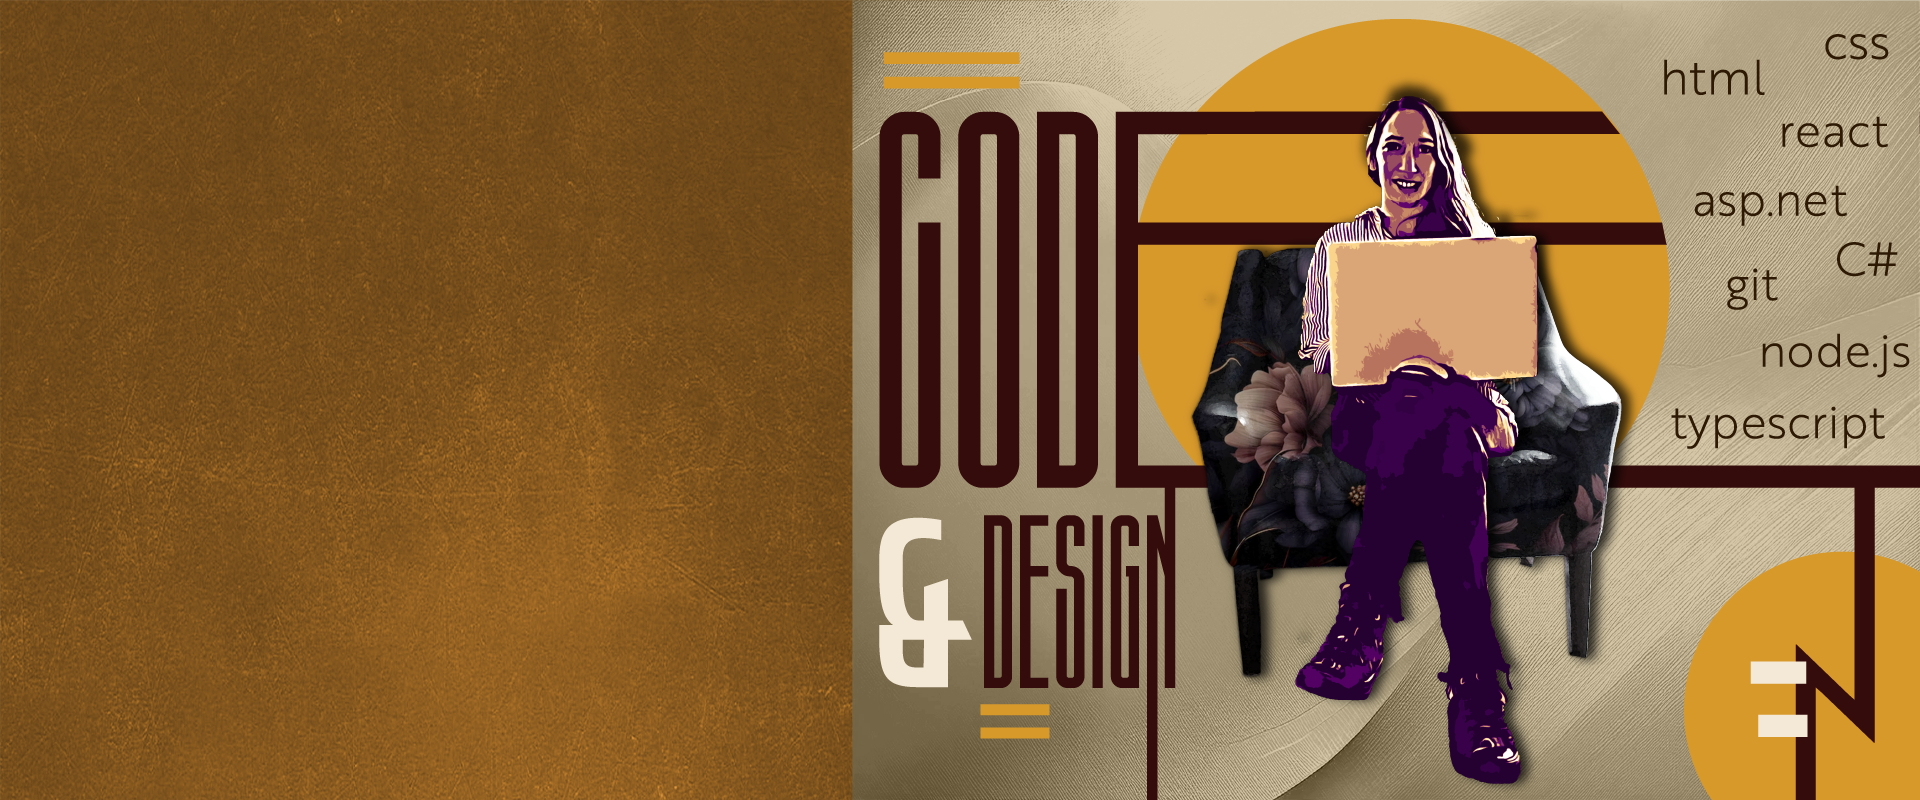
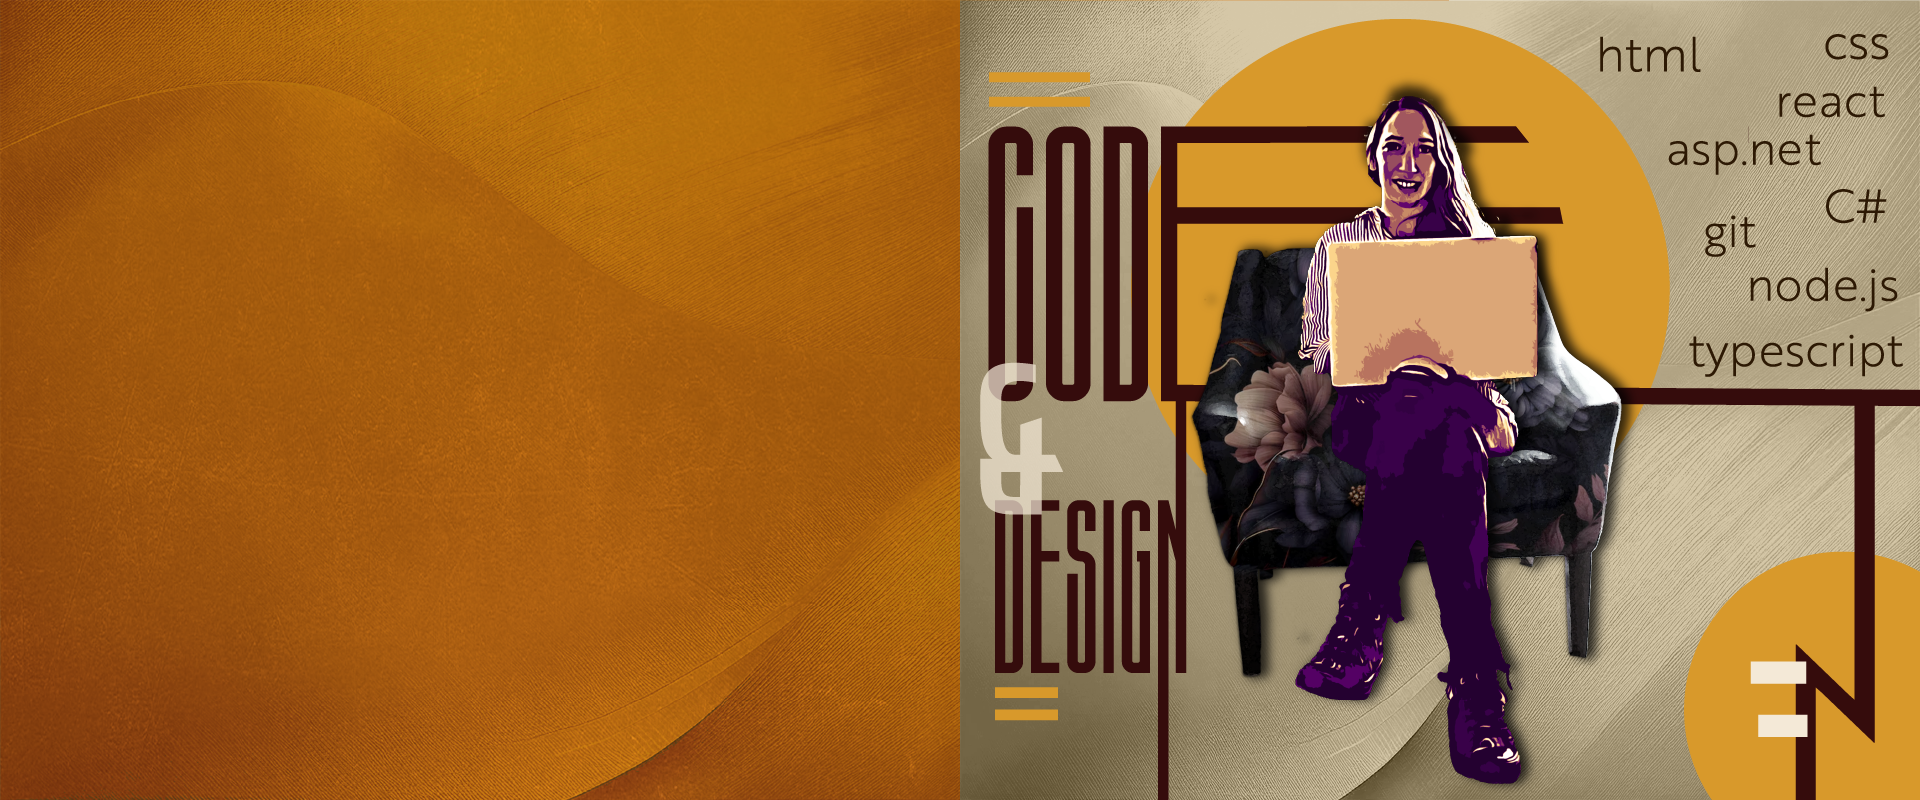
Get the hero section more responive with text

diff --git a/src/component/heroSection/HeroSection.tsx b/src/component/heroSection/HeroSection.tsx
@@ -1,45 +1,53 @@
 import { useEffect, useState } from "react";
 import { useTranslation } from "react-i18next";
 import useFadeIn from "../../hook/useFadeIn";
+import Button from "../Partial/Button";
 import ResponsiveHeroImage from "./ResponsiveHeroImage";
 
 const HeroSection = () => {
-  const { t } = useTranslation('heroSection');
+  const { t } = useTranslation("heroSection");
   const [userIsDesktop, setUserIsDesktop] = useState(window.innerWidth > 768);
   const { ref, ctrls, vars } = useFadeIn({ delay: 0.5, duration: 1, repeat: true });
-
-  
 
   useEffect(() => {
     const handleResize = () => {
       setUserIsDesktop(window.innerWidth > 768);
     };
 
-    window.addEventListener('resize', handleResize);
+    window.addEventListener("resize", handleResize);
 
     return () => {
-      window.removeEventListener('resize', handleResize);
+      window.removeEventListener("resize", handleResize);
     };
   }, []);
 
   return (
-    <div className="relative w-full h-full flex items-center justify-center">
-    <p className="absolute top-6 left-8 transform -translate-x-1-translate-y-1/2 text-center text-4xl md:text-6xl text-[#b7253d] dark:text-accent-primary font-textImportant">
-TEST
-    </p> <ResponsiveHeroImage />
+    <div className="relative w-full h-full flex justify-center">
+      <div className="absolute grid grid-cols-1 md:grid-cols-[80%] 2xl:grid-cols-[50%] w-full h-full z-10">
+        {/* Text Section */}
+        <div className="flex flex-col justify-center items-start px-6 md:px-12 text-left md:text-left text-[#350712] z-10">
+          <div className="bg-slate-100/40 p-4 rounded">
+            <h1 className="text2xl sm:text-3xl md:text-3xl lg:text-4xl xl:text-4xl mb-0 font-bold leading-snug" dangerouslySetInnerHTML={{ __html: t("title") }} />
+            <h2 className="text-xl sm:text-2xl md:text-2xl lg:text-3xl mt-4 mb-2">{t("subTitle")}</h2>
+            <h3 className="text-lg sm:text-xl md:text-xl ">{t("textIntro")}</h3>
+            <p className="text-sm sm:text-base md:text-md ">{t("text")}</p>
+          {/* Buttons */}
+          <div className="flex flex-row gap-4">
+            <Button className="bg-btn-bg text-bg-primary border-2 border-btn-bg hover:bg-bg-hover">
+              {t("ctaButtonCV")}
+            </Button>
+            <Button className="bg-transparent border-2 border-[#350712] hover:bg-[#350712] hover:text-hover-text">
+              {t("ctaButtonPortfolio")}
+            </Button>
+          </div>
+          </div>
+
+        </div>
+      </div>
+
+      <ResponsiveHeroImage />
     </div>
-     
   );
-}
+};
 
 export default HeroSection;
-
-          {/* <p className={`${styles['title-fullstack']} font-textImportant text-text-secondary dark:text-[#d57d7d] text-2xl font-light leading-none sm:text-3xl sm:-ml-[0.3em] md:pl-[0.8em] md:text-4xl xl:text-3xl 2xl:text-5xl`}>
-            {t('smallTitle')}
-          </p>
-          <h1 className={`${styles['heading-dev']} font-textImportant text-[#ef273e]  dark:text-accent-secondary uppercase mt-[0.7em] md:-mt-[0em] text-4xl sm:text-8xl md:text-6xl lg:text-7xl xl:text-6xl 2xl:text-8xl`}>
-            {t('title')}
-          </h1>
-        </motion.div> */}
-
-       

diff --git a/src/component/heroSection/ResponsiveHeroImage.tsx b/src/component/heroSection/ResponsiveHeroImage.tsx
@@ -3,49 +3,47 @@ import { useEffect } from "react";
 const ResponsiveHeroImage = () => {
   useEffect(() => {
     const handleResize = () => {
-      // console.log('Window resized:', window.innerWidth);
-      window.addEventListener('resize', handleResize);
+      console.log('Window resized:', window.innerWidth);
     };
-  
+
+    window.addEventListener("resize", handleResize);
     return () => {
-      window.removeEventListener('resize', handleResize);
+      window.removeEventListener("resize", handleResize);
     };
   }, []);
 
   return (
     <picture>
-    {/* Mobile image for screens up to 767px */}
-    <source
-      media="(max-width: 767px)" 
-      srcSet="/assets/images/heroImage_mobile.webp 300w, /assets/images/heroImage_mobile.webp 768w"
-      className="object-cover w-full h-full"
-    />
-    
-    {/* Tablet image for screens between 768px and 1023px */}
-    <source
-      media="(min-width: 768px) and (max-width: 1142px)"
-      srcSet="/assets/images/heroImage_tablet.webp"
-      className="object-cover w-full h-full"
-    />
-  
-    {/* Desktop image for screens 1024px and wider */}
-    <source
-      media="(min-width: 1025px)"
-      srcSet="/assets/images/heroImage_desktop.webp"
-      className="object-cover w-full h-full"
-    />
-  
-    {/* Fallback image for older browsers */}
-    <img 
-      src="/assets/images/heroImage_desktop.wepbp" 
-      alt="Hero Image"
-      loading="lazy"
-      className="object-cover w-full h-full"
-    />
-  </picture>
-  
-  )
+      {/* Mobile image for screens up to 767px */}
+      <source
+        media="(max-width: 767px)"
+        srcSet="/assets/images/heroImage_mobile.webp 300w, /assets/images/heroImage_mobile.webp 768w"
+        className="object-cover w-full h-full"
+      />
 
-    }
-    
-    export default ResponsiveHeroImage;
+      {/* Tablet image for screens between 768px and 1535px */}
+      <source
+        media="(min-width: 768px) and (max-width: 1535px)"
+        srcSet="/assets/images/heroImage_tablet.webp"
+        className="object-cover w-full h-full"
+      />
+
+      {/* Desktop image for screens 1024px and wider */}
+      <source
+        media="(min-width: 1536px)"
+        srcSet="/assets/images/heroImage_desktop.webp"
+        className="object-cover w-full h-full"
+      />
+
+      {/* Fallback image for older browsers */}
+      <img
+        src="/assets/images/heroImage_desktop.webp"
+        alt="Hero Image"
+        loading="lazy"
+        className="object-cover w-full h-full"
+      />
+    </picture>
+  );
+};
+
+export default ResponsiveHeroImage;

diff --git a/src/component/header/NavbarMobile.tsx b/src/component/header/NavbarMobile.tsx
@@ -7,6 +7,8 @@ import { navRoutes } from '../../config/MenuItemsData';
 import { ThemeContext } from '../../context/ThemeContext';
 import { useClickOutside } from '../../hook/useClickOutside';
 import Footer from '../footer/Footer';
+import SelectLanguage from '../SelectLanguage';
+import ThemeSwitch from '../ThemeSwitch';
 import AnimatedHamburgerButton from './AnimatedHamburgerButton';
 import MenuItems from './MenuItems';
 
@@ -59,7 +61,12 @@ const NavbarMobile = () => {
             }}
             className='h-screen bg-bg-primary text-text-accent dark:text-bg-primary fixed left-0 right-0 top-0 bottom-0 w-full flex flex-col'
           >
+             <div className='flex gap-4 items-center p-4'>
+              <ThemeSwitch />
+              <SelectLanguage />
+            </div> 
             <div className='flex-grow overflow-y-auto mt-[3em]'>
+           
               <ul className='grid gap-2 pl-8'>
                 {navRoutes.map((menu, index) => (
                   <MenuItems
@@ -70,8 +77,11 @@ const NavbarMobile = () => {
                   />
                 ))}
               </ul>
+
+              
             </div>
 
+           
             <div className='flex w-8/12 mt-8 mb-8 p-2 mx-auto border rounded text-btn-bg border-btn-bg hover:border-bg-hover hover:bg-bg-hover hover:text-bg-primary'>
               <NavLink
                 to='/'
@@ -80,6 +90,8 @@ const NavbarMobile = () => {
                 {t('contact')}
               </NavLink>
             </div>
+
+          
 
             <Footer />
           </motion.div>

diff --git a/src/component/Partial/Button.tsx b/src/component/Partial/Button.tsx
@@ -10,7 +10,7 @@ interface ButtonProps extends React.ButtonHTMLAttributes<HTMLButtonElement> {
 const Button = ({ bgColor = 'transparent', border, className = '', children, ...props }: ButtonProps) => {
   return (
     <button
-      className={`${bgColor} ${border ? border : 'font-sub-heading tracking-wider border-2 rounded text-lg  font-medium hover:shadow-lg hover:text-bg-primary md:text-xl px-4 py-2'} ${className}`}
+      className={`${bgColor} ${border ? border : 'font-sub-heading tracking-wider border-2 rounded text-sm lg:text-lg font-medium hover:shadow-lg hover:text-bg-primary px-4 py-2'} ${className}`}
       {...props}
     >
       {children}

diff --git a/src/component/header/Header.tsx b/src/component/header/Header.tsx
@@ -100,8 +100,10 @@ const Header = () => {
         </div>
 
         <div className="flex items-center gap-4">
-          <ThemeSwitch />
-          <SelectLanguage />
+          <div className='hidden lg:flex items-center gap-4'>
+            <ThemeSwitch />
+            <SelectLanguage />
+          </div>
           <NavLink
             to="/contact"
             className="hidden lg:flex font-sub-heading text-lg lg:text-xl font-medium border-2 rounded border-btn-bg px-3 py-1 md:px-4 md:py-2 text-btn-bg hover:bg-bg-hover hover:border-bg-hover hover:text-bg-primary"

diff --git a/src/index.css b/src/index.css
@@ -64,6 +64,34 @@
   max-width: calc(100% - 20%); 
 } */
 
+.outlined-text  {
+  color: transparent; 
+  -webkit-text-stroke: 0.6px #edd8bf;
+  font-size: 3rem;
+  line-height: 3rem;
+}
+
+
+@media (min-width: 640px) {
+  .outlined-text {
+    font-size: 4rem; 
+    line-height: 6rem;
+  }
+}
+
+@media (min-width: 768px) {
+  .outlined-text {
+    font-size: 3rem; 
+  }
+}
+
+@media (min-width: 1024px) {
+  .outlined-text {
+    font-size: 4rem; 
+   
+  }
+}
+
 
 /* Light mode variables */
 :root {

diff --git a/src/pages/HomePage.tsx b/src/pages/HomePage.tsx
@@ -37,7 +37,7 @@ const HomePage = () => {
     >
      
       {/* Hero Section */}
-      <section id="home" className="relative">
+      <section id="home" className="relative items-center">
         <HeroSection />
       </section>
 
